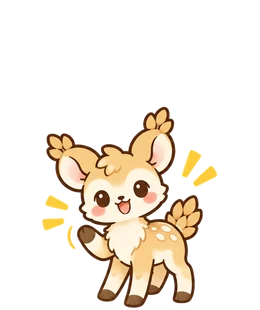
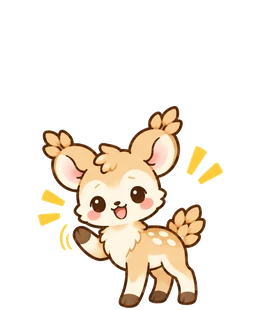
ぽぷら・ふわりん・こむぎ の 絵 5まい を 手あし の 数 を 直した 絵 に 差し替え

Changed region(s): [[0.1231, 0.3194, 0.8, 1.0], [0.8, 0.5226, 0.8615, 0.5806]]

diff --git a/index.html b/index.html
@@ -5,10 +5,10 @@
 <link rel="icon" type="image/png" sizes="64x64" href="favicon.png?v=3">
 <link rel="apple-touch-icon" href="apple-touch-icon.png?v=3">
 <link rel="manifest" href="manifest.json">
-<script src="stickers/stickers.js?v=202610280819"></script>
-<script src="nakama/nakama.js?v=202610280819"></script>
-<script src="clock/clock.js?v=202610280819"></script>
-<script src="drill/patterns.js?v=202610280819"></script>
+<script src="stickers/stickers.js?v=202610280820"></script>
+<script src="nakama/nakama.js?v=202610280820"></script>
+<script src="clock/clock.js?v=202610280820"></script>
+<script src="drill/patterns.js?v=202610280820"></script>
 <meta name="apple-mobile-web-app-title" content="けいさん">
 <link rel="preconnect" href="https://fonts.googleapis.com">
 <link rel="preconnect" href="https://fonts.gstatic.com" crossorigin>
@@ -3466,7 +3466,7 @@ body.course .levels.nrange .lv{padding:3px 2px;font-size:12px}
   const nkSp = id => NK_LIST.find(x=>x.id===id) || NK_LIST[0];
   // ちいさい だんかいは すこし おおきく みせる（そだって いる かんじは のこす）
   const NK_SCALE = [1.9, 1.5, 1.15, 1, 1, 1];
-  const NK_IMG_VER = "5";   // なかまの え を さしかえたら ばんごうを あげる（ふるい え が のこらない ように）
+  const NK_IMG_VER = "6";   // なかまの え を さしかえたら ばんごうを あげる（ふるい え が のこらない ように）
   const nkImgSrc = (id, stage, mood) => `nakama/${id}/${NK_STAGES[stage]}_${stage===0 && mood==="s" ? "n" : mood}.webp?v=${NK_IMG_VER}`;
   const dkDate = k => { const [y,m,d]=k.split("-").map(Number); return new Date(y, m-1, d); };
   const dkAdd = (k, n) => { const d=dkDate(k); d.setDate(d.getDate()+n); return dayKey(d); };

diff --git a/CHANGELOG.md b/CHANGELOG.md
@@ -12,6 +12,9 @@
 ## 2026-10-28
 
 ### 修正（なかま）
+- **12:25** ぽぷら（こども・しょんぼり／わかもの・ねむい）、ふわりん（こども・あさ）、こむぎ（こども・あさ／ひる）の絵で、手やあしの数がおかしかったのを直しました。
+
+### 修正（なかま）
 - **08:19** ぽぷら（おとしより・しょんぼり）の絵で、つえが曲がっていたのを直しました。
 
 ### 修正（なかま）
